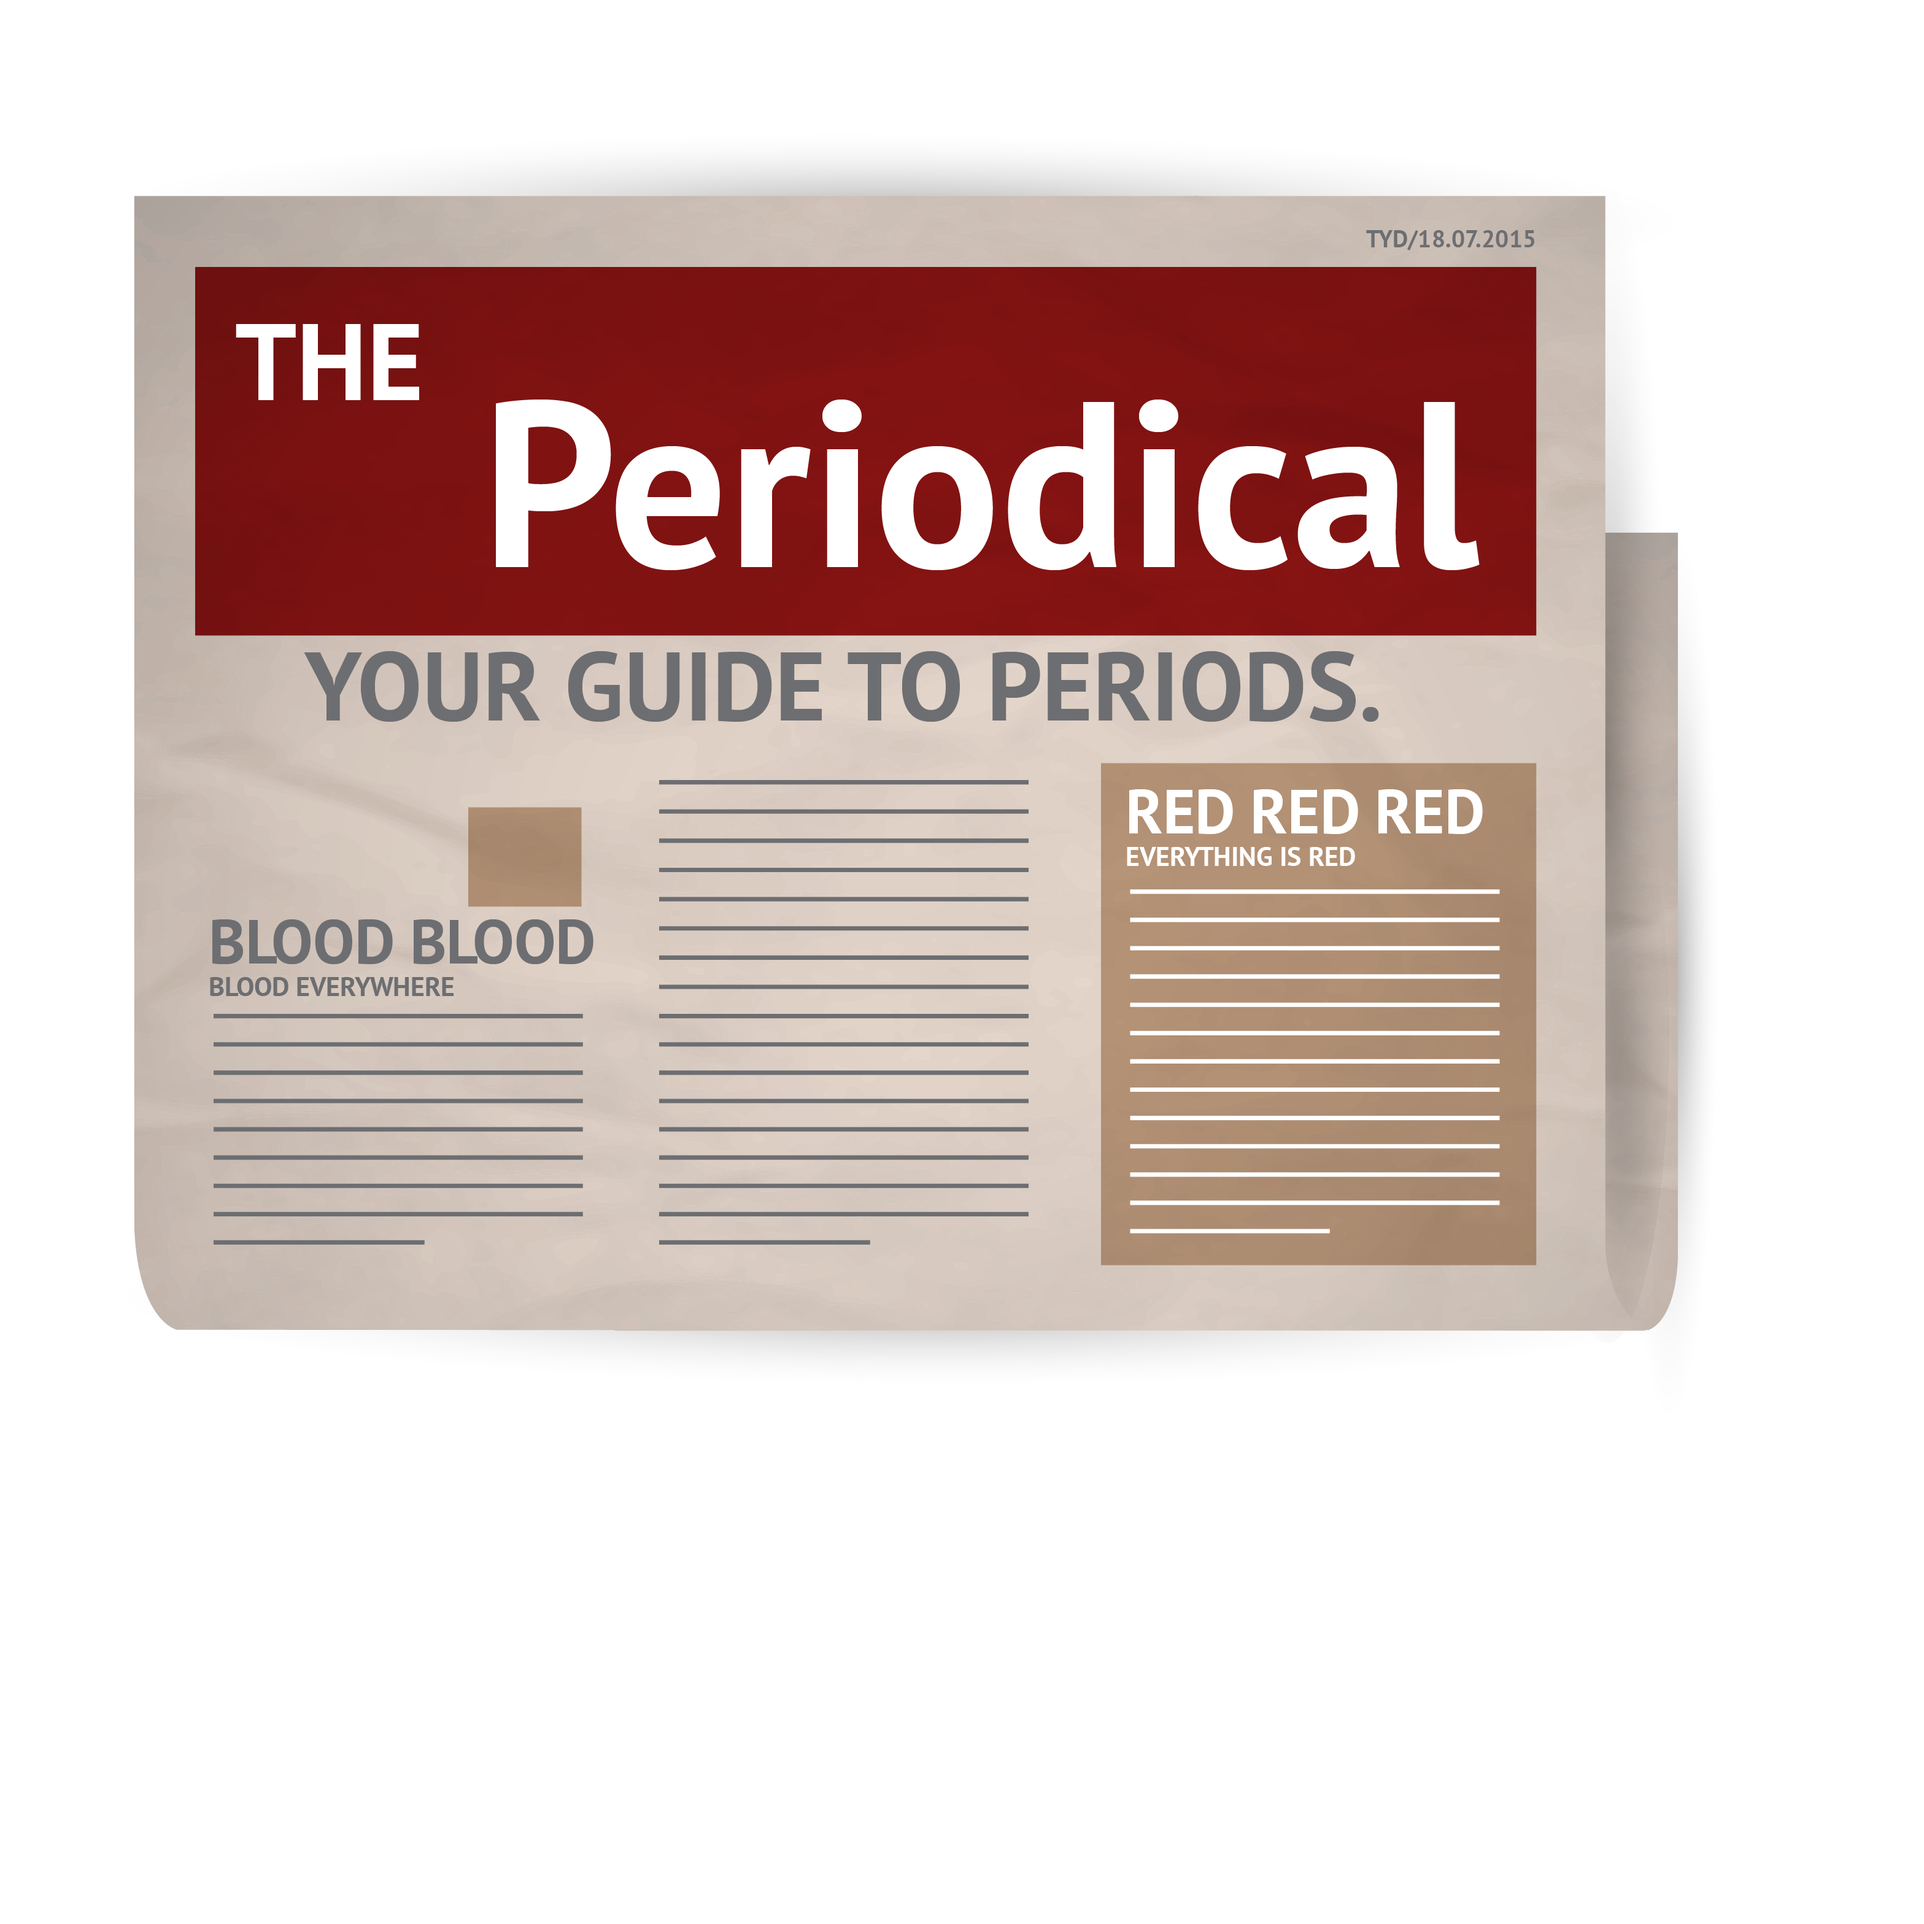
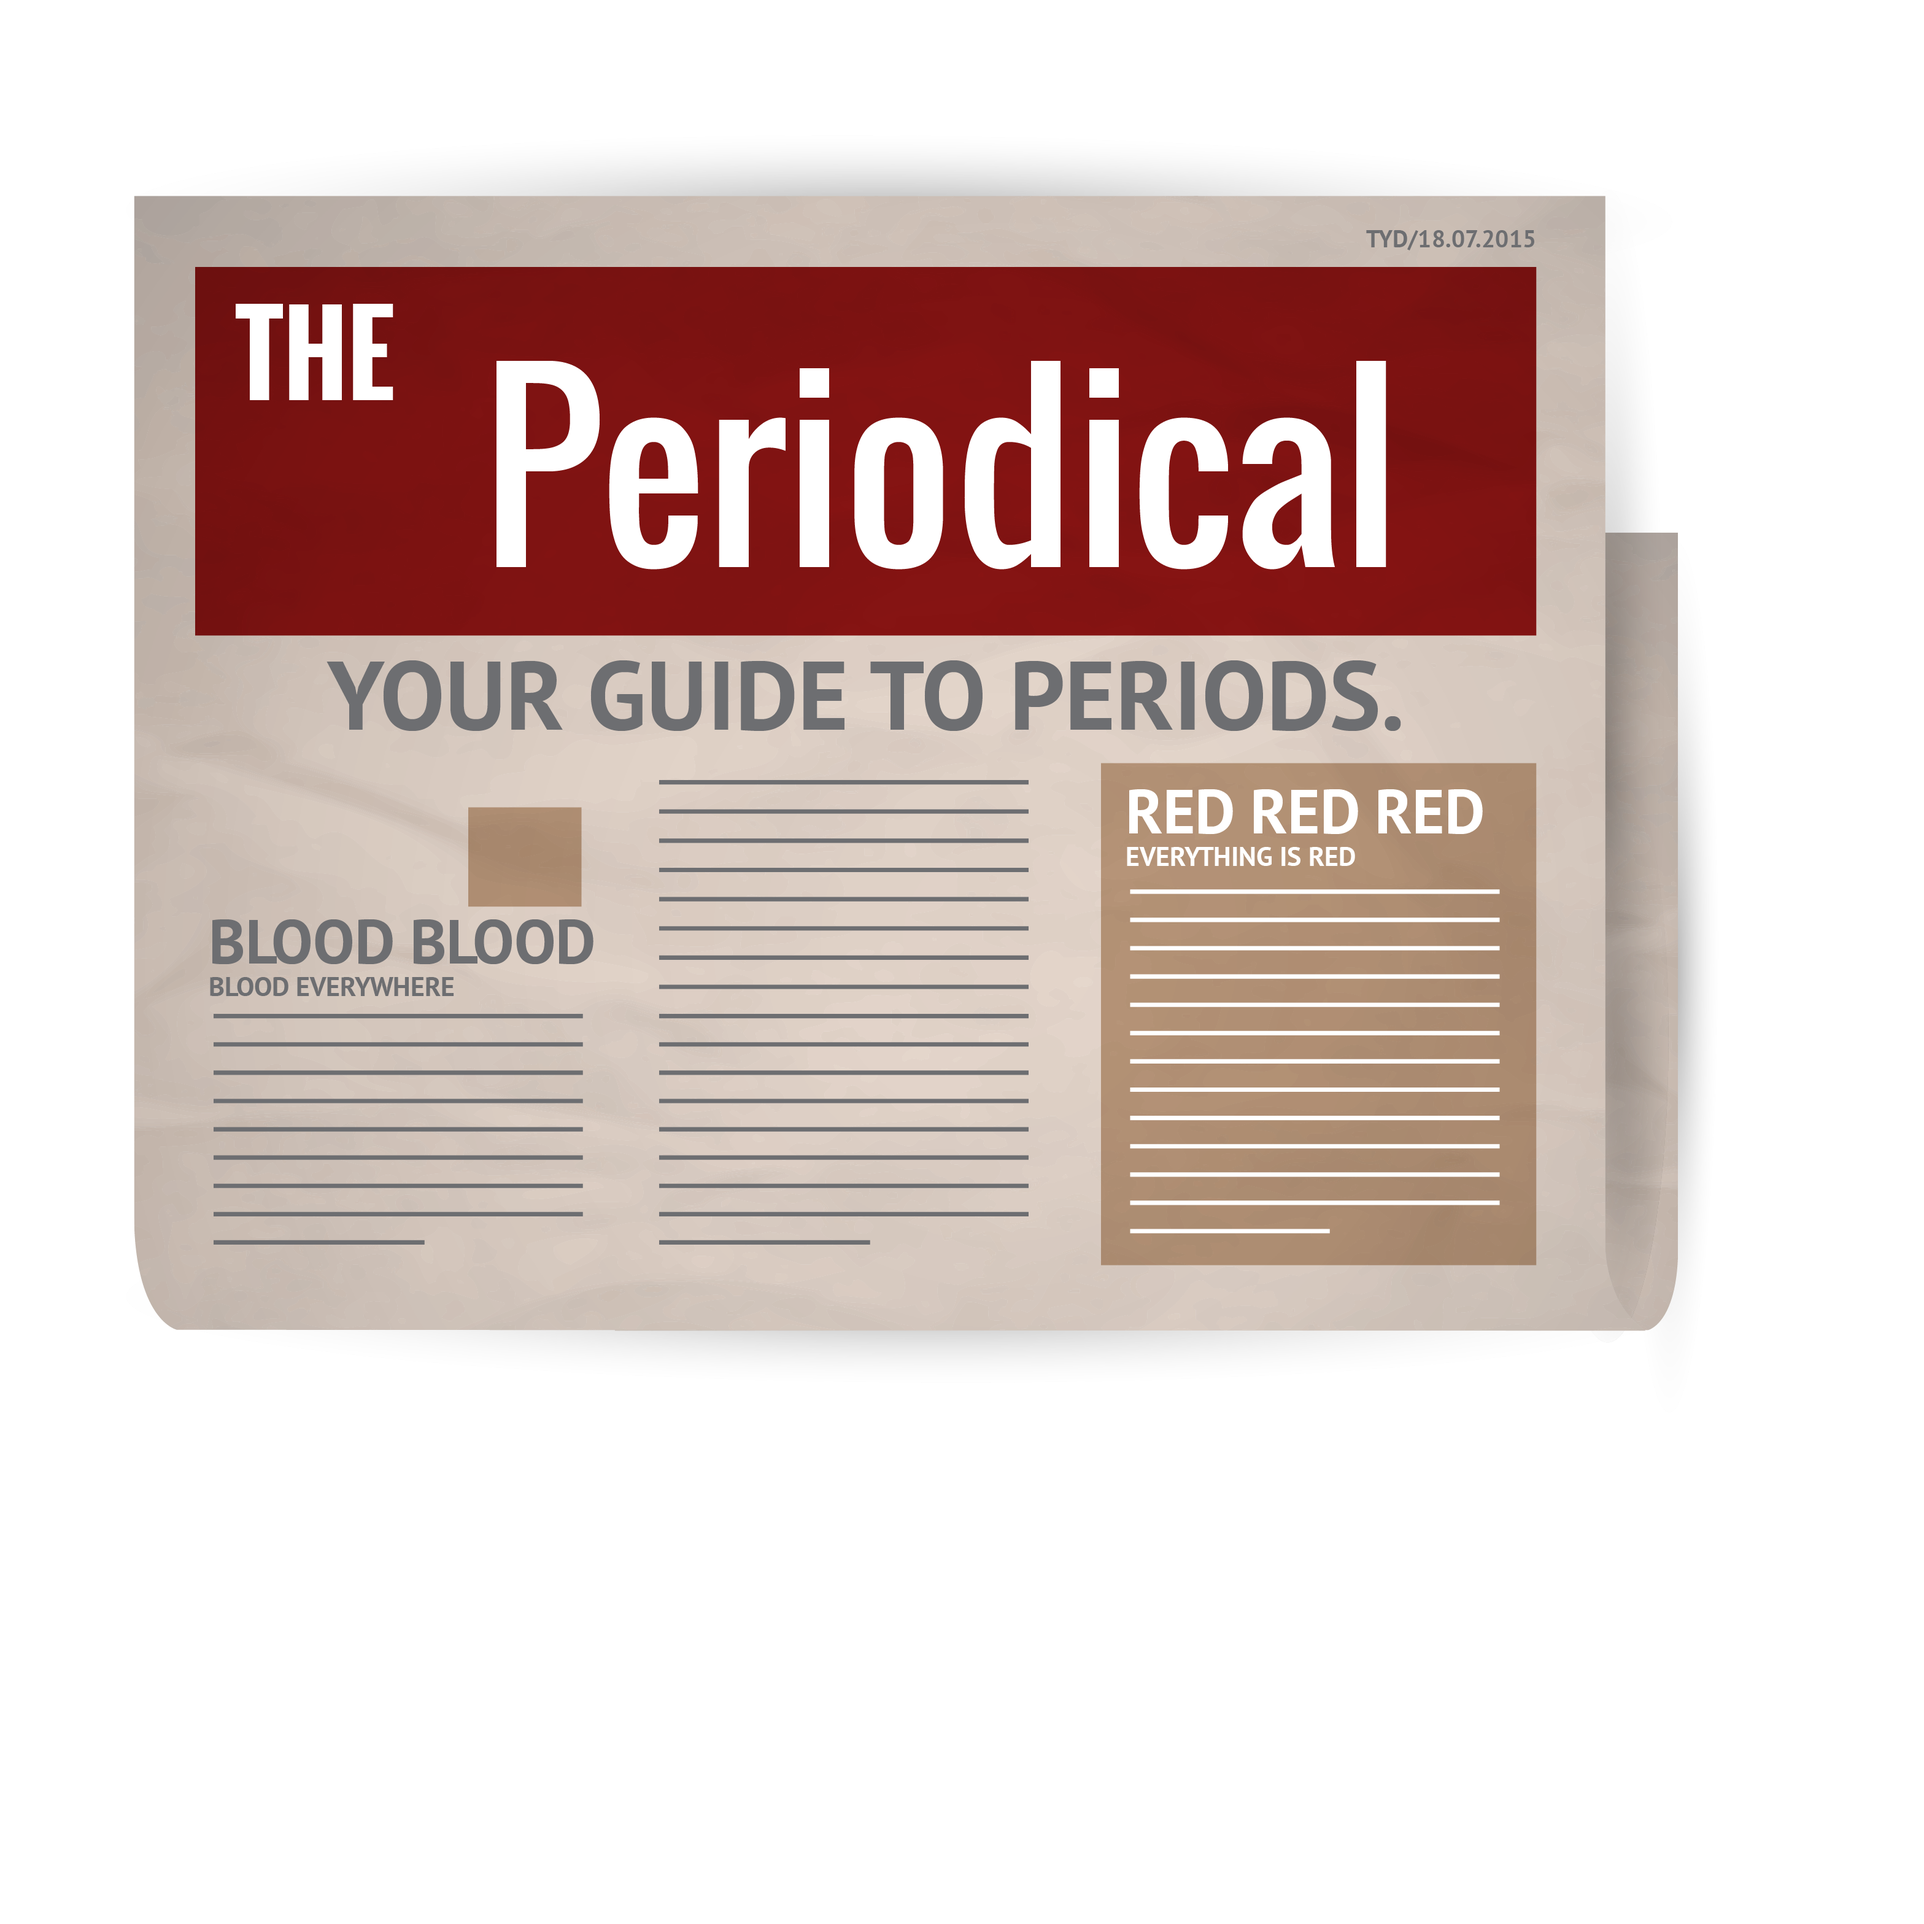
adding fonts

Changed region(s): [[0.2475, 0.1856, 0.7735, 0.3094], [0.1547, 0.3404, 0.7116, 0.4022], [0.1238, 0.1547, 0.2166, 0.2166]]

diff --git a/index.html b/index.html
@@ -4,7 +4,7 @@
     <meta charset="utf-8">
     <meta name="viewport" content="width=device-width">
     <title>The Periodical</title>
-    <link href='http://fonts.googleapis.com/css?family=Bitter:400,700|Francois+One|Squada+One|Oswald:400,700|Passion+One|Bevan' rel='stylesheet' type='text/css'>
+    <link href='http://fonts.googleapis.com/css?family=Bitter:400,700|Oswald' rel='stylesheet' type='text/css'>
     <link rel ="stylesheet" type "text/css" href="css/parallax.css">
     <link rel ="stylesheet" type "text/css" href="css/style.css">
     <script src="https://cdnjs.cloudflare.com/ajax/libs/d3/3.5.5/d3.min.js"></script>
@@ -30,7 +30,7 @@
           <div class="all-pages"></div>
         </div>
         <div id="page2" class="parallax__layer parallax__layer--base">
-          <div class="all-pages">Pool of Blood</div>
+          <div class="all-pages"><h2>Pool of Blood</h2></div>
         </div>
       </div>
      
@@ -40,7 +40,7 @@
         <div class="parallax__layer parallax__layer--base">
         </div>
         <div id="page3" class="parallax__layer parallax__layer--back">
-          <div class="all-pages">First fact, ethiopia</div>
+          <div class="all-pages"><h2>First fact, ethiopia</h2></div>
         </div>
       </div>
       <div class="group3 parallax__group">
@@ -48,7 +48,7 @@
           <div class="all-pages"></div>
         </div>
         <div id="page4" class="parallax__layer parallax__layer--base">
-          <div class="all-pages tampons">Raining tampons</div>
+          <div class="all-pages tampons"><h2>Raining tampons</h2></div>
         </div>
       </div>
       
@@ -58,7 +58,7 @@
           <div class="all-pages"></div>
         </div>
         <div class="parallax__layer parallax__layer--back">
-          <div id="page5" class="all-pages">Second fact</div>
+          <div id="page5" class="all-pages"><h2>Second fact</h2></div>
         </div>
       </div>
       <div class="group3 parallax__group">
@@ -66,11 +66,9 @@
           <div class="all-pages"></div>
         </div>
         <div class="parallax__layer parallax__layer--base">
-          <div id="page6" class="all-pages">*the end*</div>
+          <div id="page6" class="all-pages"><h2>*the end*</h2></div>
         </div>
       </div>
-      
-    <script>
-
   </body>
+  <script src="https://cdnjs.cloudflare.com/ajax/libs/d3/3.5.5/d3.min.js"></script>
 </html>

diff --git a/css/style.css b/css/style.css
@@ -1,3 +1,11 @@
+h1, h2 {
+  font-family: 'Oswald', 'sans-serif';
+}
+
+body {
+  font-family: 'Bitter', 'serif';
+}
+
 .all-pages {
   text-align: center;
   position: absolute;

diff --git a/tampons.html b/tampons.html
@@ -33,7 +33,7 @@ path {
 var width = 960,
     height = 500;
 
-var n = 100,
+var n = 10,
     m = 12,
     degrees = 180 / Math.PI;
 
